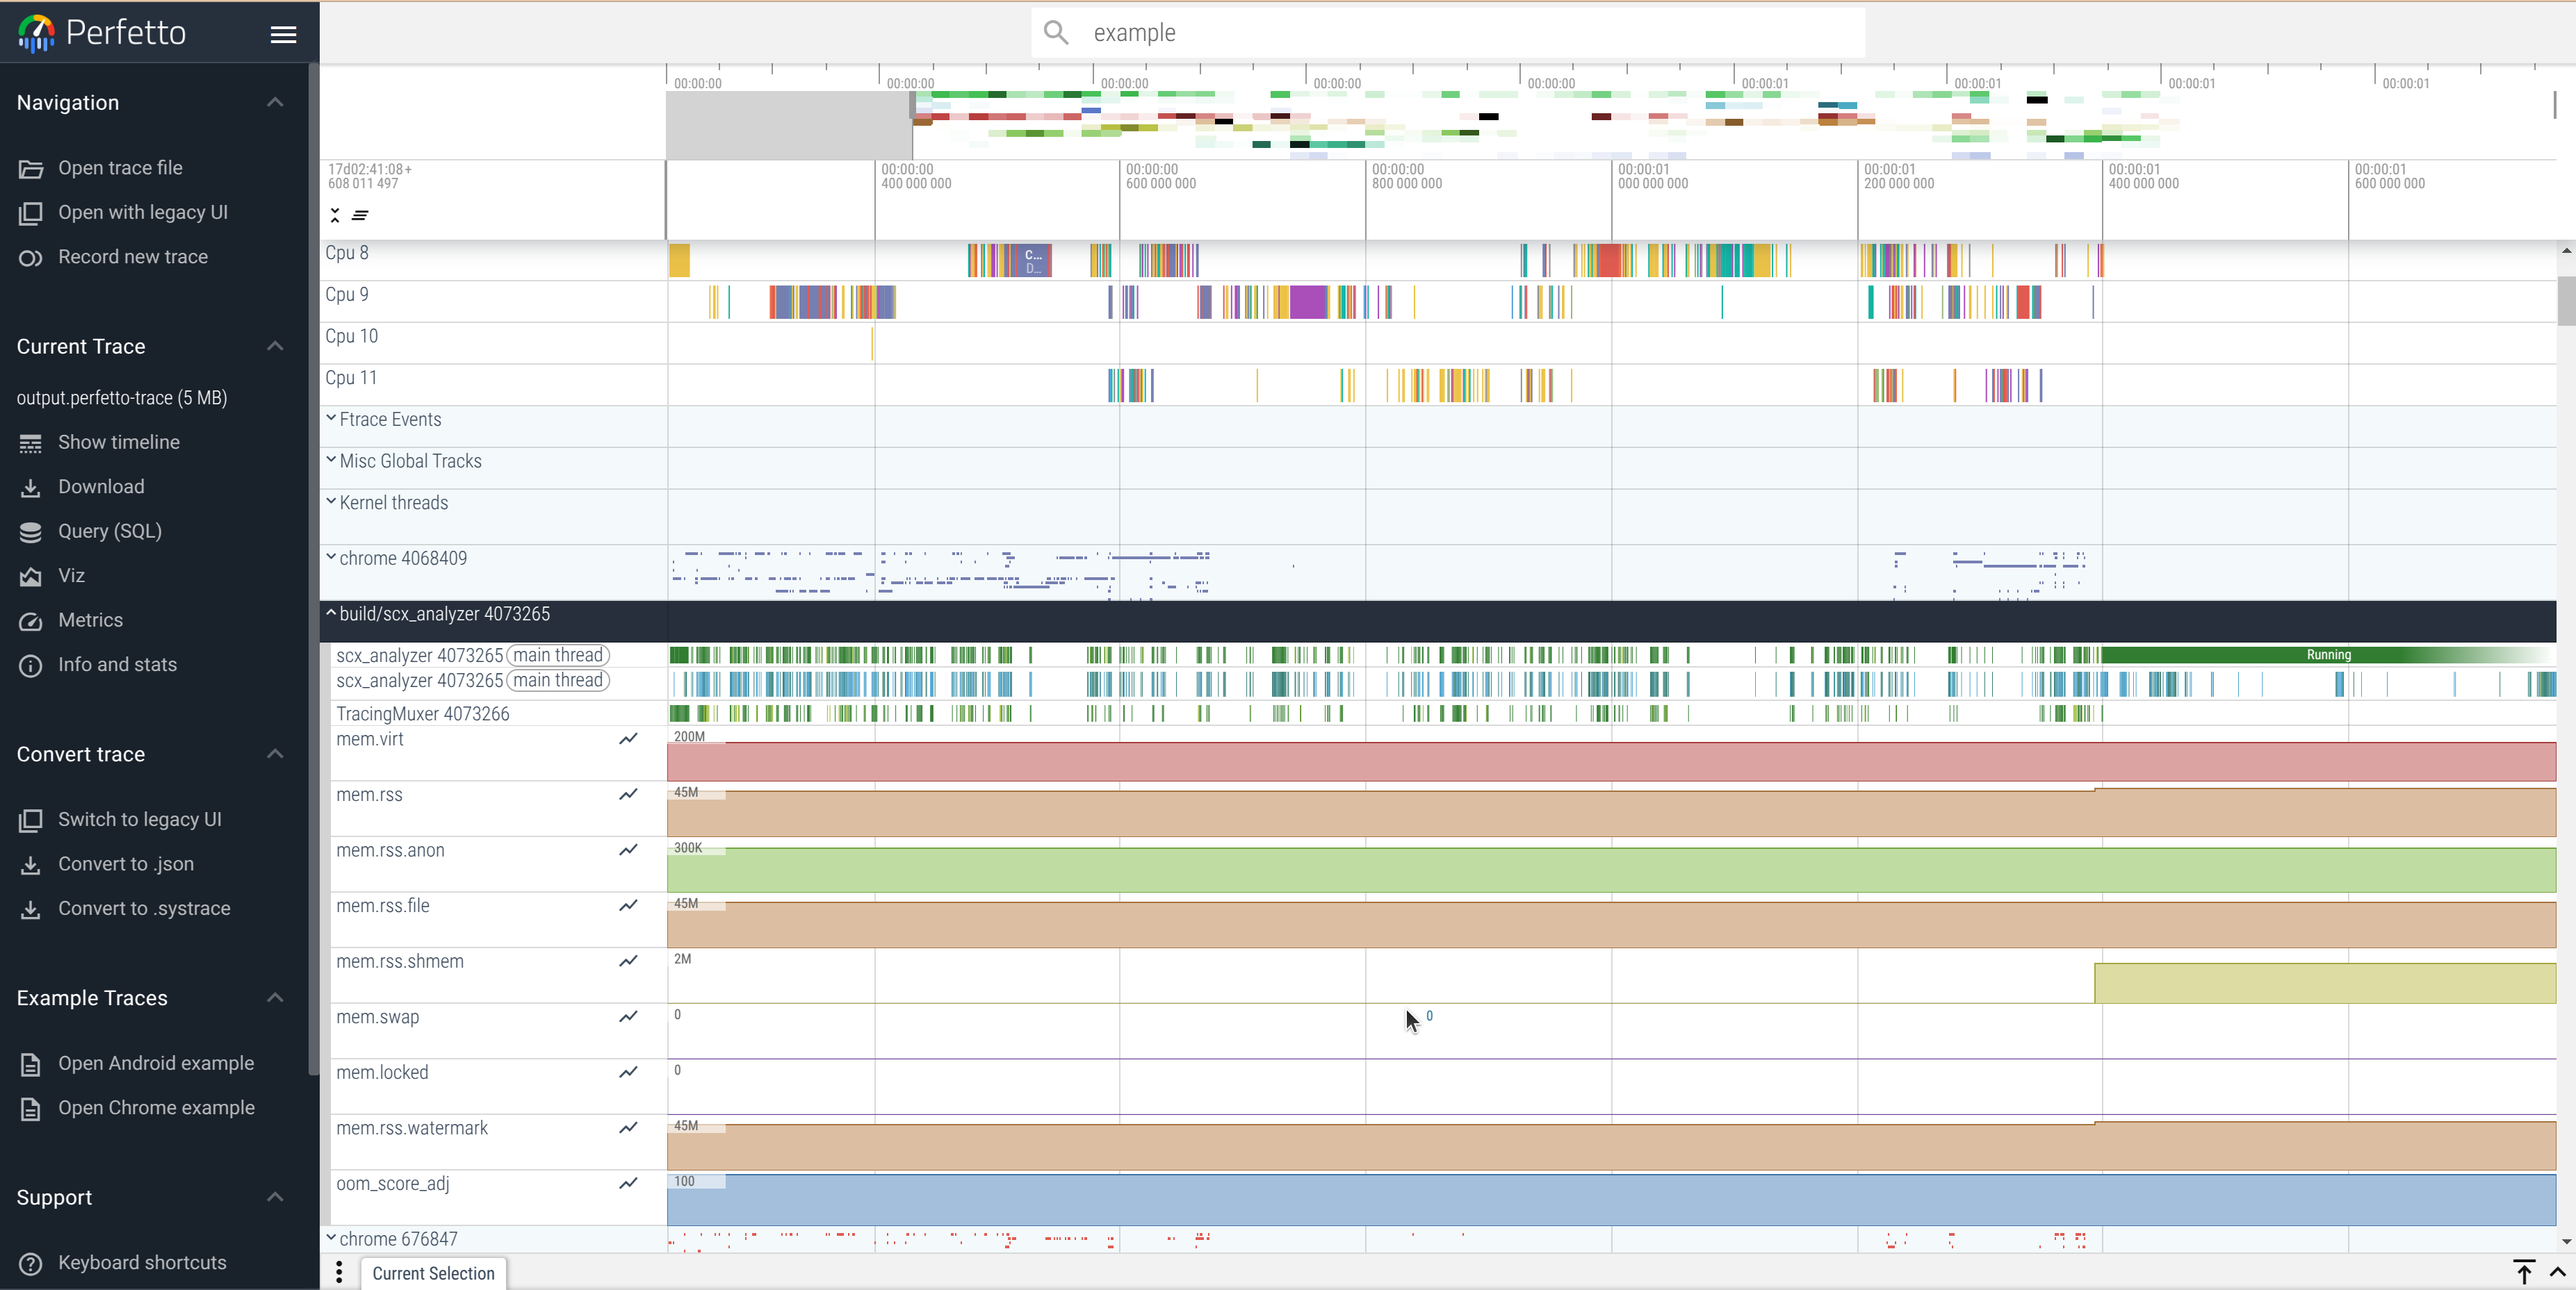
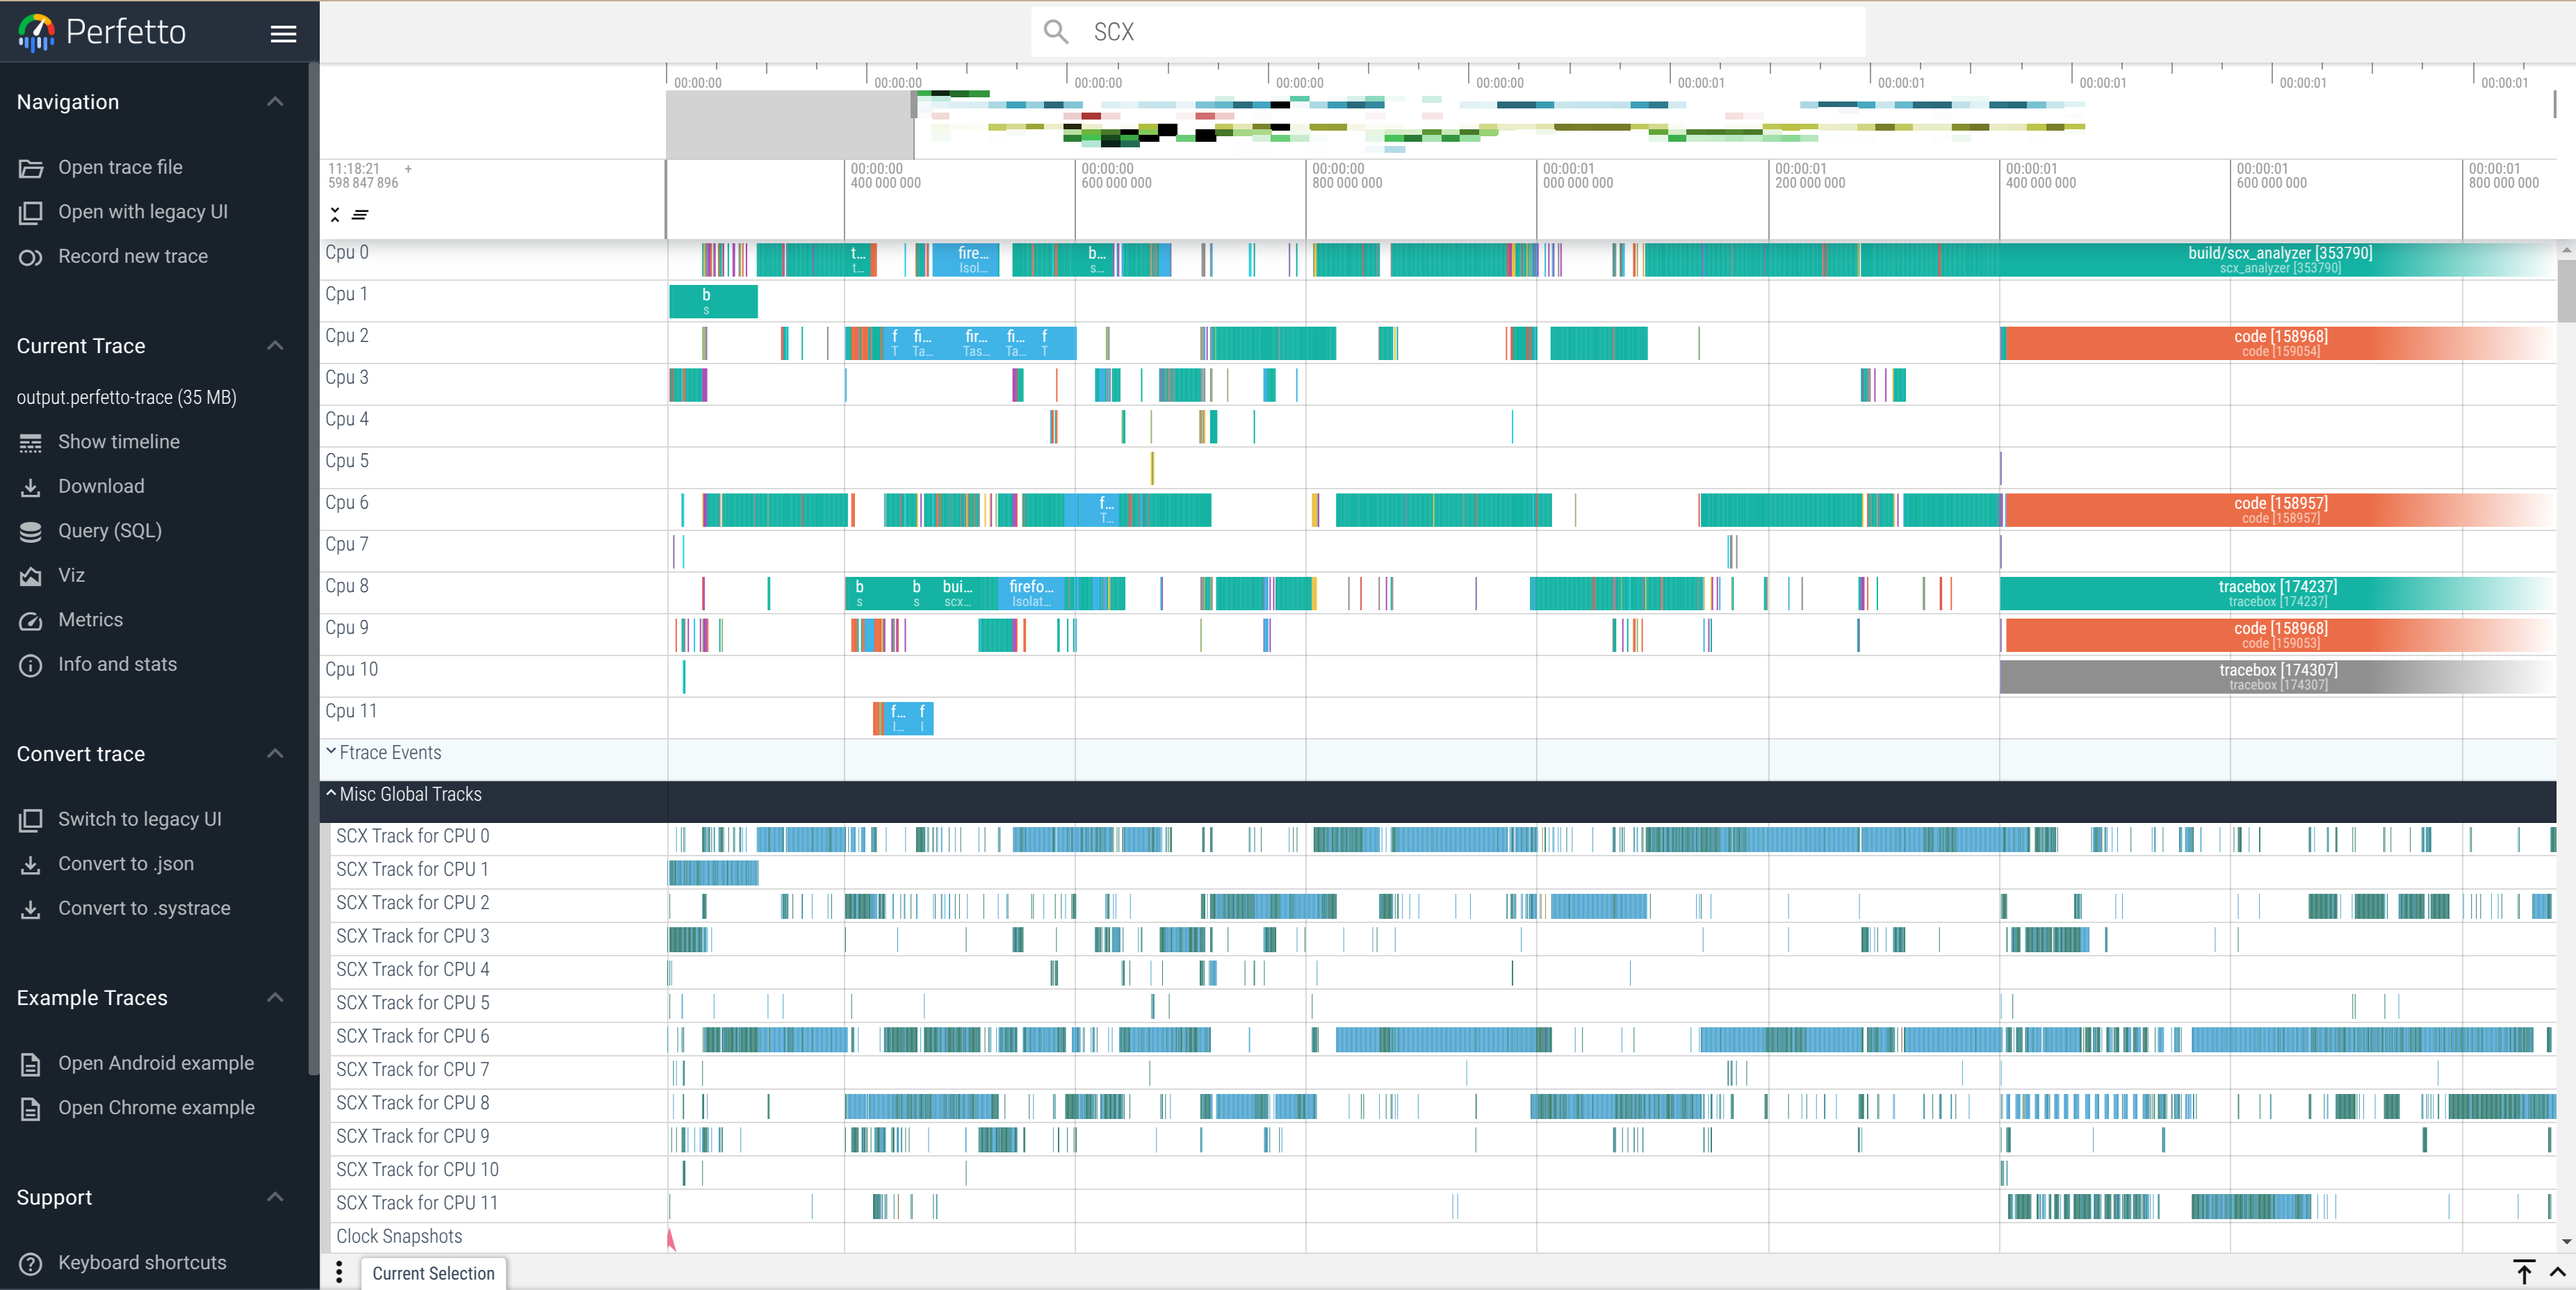
Modify the SCX track name and README.md

diff --git a/scx_wrapper.cc b/scx_wrapper.cc
@@ -34,7 +34,7 @@ void set_all_track_names()
 		auto track = get_track(cpu);
 		auto desc = track.Serialize();
 
-		snprintf(track_name, 0x20, "SCX (Cpu %d)", cpu);
+		snprintf(track_name, 0x20, "SCX Track for CPU %2d", cpu);
 		desc.set_name(track_name);
 		perfetto::TrackEvent::SetTrackDescriptor(track, desc);
 	}

diff --git a/README.md b/README.md
@@ -57,4 +57,6 @@ Successfully open output file! fd=7
 After running the SCX Analyzer, an *output.perfetto-trace* file will be generated in the current directory.
 To view the trace data, use the Perfetto UI. Open the file in the Perfetto Trace Viewer for a detailed visualization of the collected trace data.
 
+SCX events are located in 'Misc Global Tracks' section and are organized into per-CPU tracks.
+
 ![](img/perfetto-gui.png)
